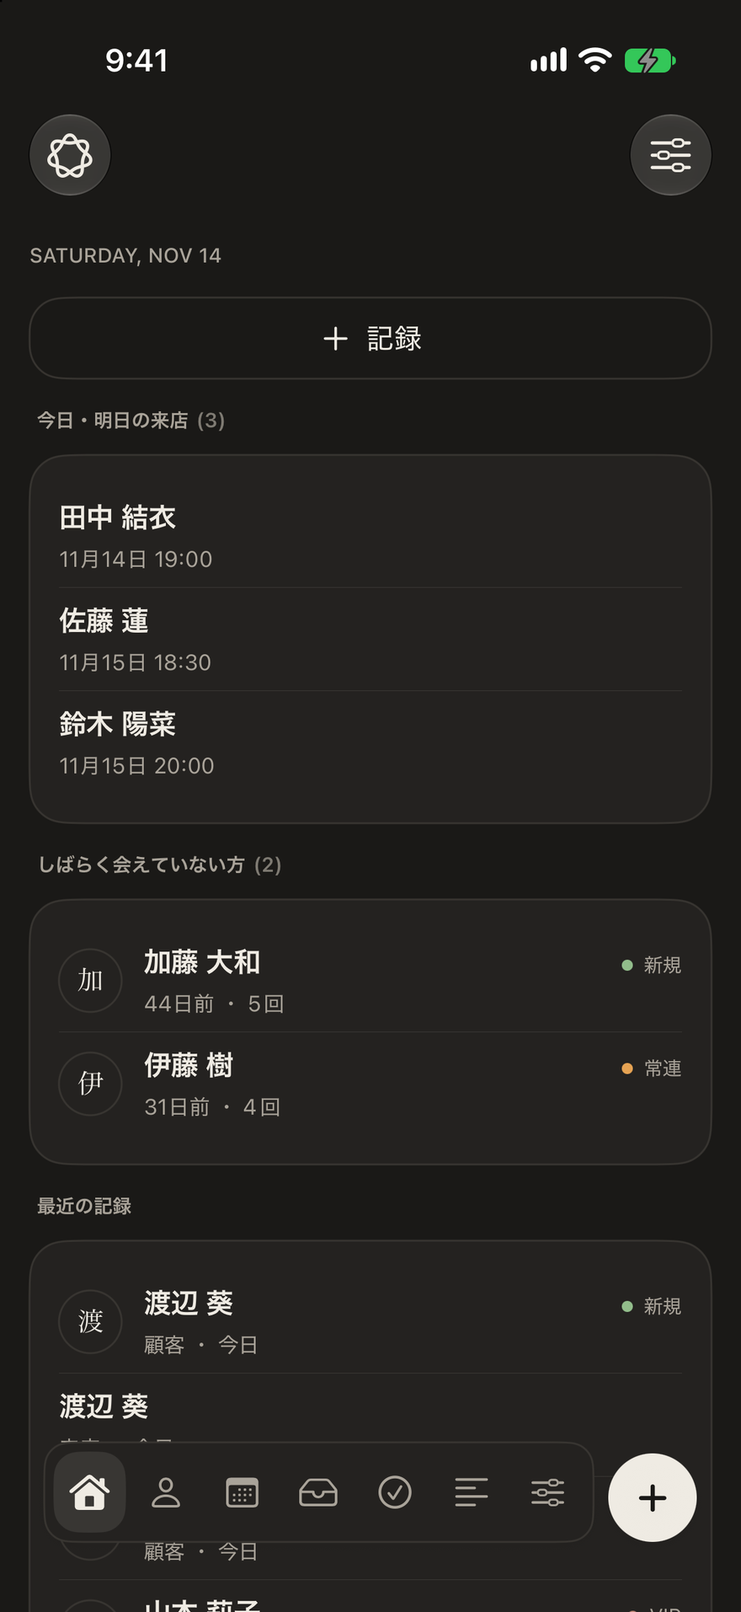
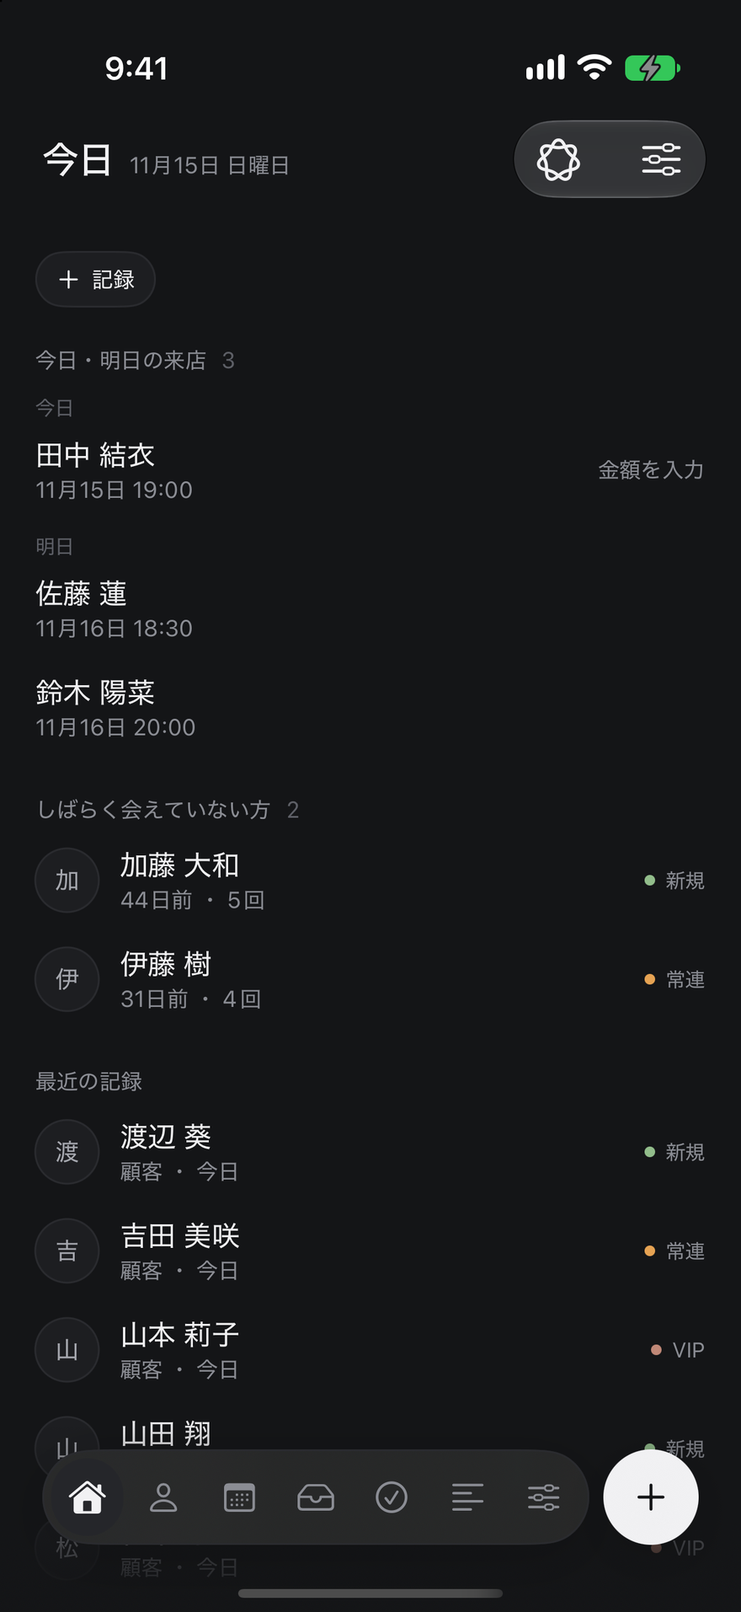
One CRM 1.6.0 に合わせる: 使い方ガイド（検索は虫眼鏡・期間と並び順・来店/案件/タスクの一覧・分析・声の入力・Siri）と画面25枚
- ガイドの画面を新しいデザインで撮り直し（14枚）＋新規3枚（タブ・来店の一覧・分析）
- 紹介ページとトップの画面8枚を差し替え
- パソコン幅でガイドの組み方が崩れていたのを修正（共通の .guide の2列を、このページでは使わない）

diff --git a/one-crm-guide.html b/one-crm-guide.html
@@ -26,10 +26,10 @@
 <link rel="apple-touch-icon" href="/apple-touch-icon.png?v=3">
 <link rel="stylesheet" href="./styles.css?v=20">
 <script type="application/ld+json">
-{"@context": "https://schema.org", "@type": "TechArticle", "headline": "One CRM の使い方", "description": "顧客管理アプリ One CRM の使い方。出発点の選び方、顧客の登録と記録、自動計算、項目とホームのカスタマイズ、法人営業の案件管理、通知、Apple Intelligence、チームでの共有、バックアップと CSV まで。", "url": "https://pohoda.jp/one-crm-guide.html", "image": "https://pohoda.jp/assets/og/og-one-crm.png", "inLanguage": "ja", "datePublished": "2026-10-20", "dateModified": "2026-11-14", "about": {"@type": "MobileApplication", "name": "One CRM", "url": "https://pohoda.jp/one-crm.html"}, "author": {"@type": "Organization", "name": "Pohoda", "url": "https://pohoda.jp/"}, "publisher": {"@type": "Organization", "name": "Pohoda", "url": "https://pohoda.jp/"}}
+{"@context": "https://schema.org", "@type": "TechArticle", "headline": "One CRM の使い方", "description": "顧客管理アプリ One CRM の使い方。出発点の選び方、顧客の登録と記録、自動計算、項目とホームのカスタマイズ、法人営業の案件管理、通知、Apple Intelligence、チームでの共有、バックアップと CSV まで。", "url": "https://pohoda.jp/one-crm-guide.html", "image": "https://pohoda.jp/assets/og/og-one-crm.png", "inLanguage": "ja", "datePublished": "2026-10-20", "dateModified": "2026-11-15", "about": {"@type": "MobileApplication", "name": "One CRM", "url": "https://pohoda.jp/one-crm.html"}, "author": {"@type": "Organization", "name": "Pohoda", "url": "https://pohoda.jp/"}, "publisher": {"@type": "Organization", "name": "Pohoda", "url": "https://pohoda.jp/"}}
 </script>
 <script type="application/ld+json">
-{"@context": "https://schema.org", "@type": "FAQPage", "mainEntity": [{"@type": "Question", "name": "「＋」（記録）を押すと、顧客の登録が開きます", "acceptedAnswer": {"@type": "Answer", "text": "「ゼロから作る」で始めると、来店などの記録の種類が入っていないため、こうなります。「カスタマイズ」の「ビジネス」で「ビジネスを追加」を押し、「サロン・教室」などの出発点を選んで作り直すのが早道です。いまの台帳のまま使うなら、「出来事」のコレクションと自動計算の項目を自分で作ります。"}}, {"@type": "Question", "name": "しばらく来ていない方を探したい", "acceptedAnswer": {"@type": "Answer", "text": "ホームの「しばらく会えていない方」に出ます。全員を順に見たいときは、顧客の一覧で並び順の「最終来店」を選び、もう一度「最終来店」を選んで矢印を「↑」にすると、長く来ていない方から並びます。"}}, {"@type": "Question", "name": "一覧に出す内容を変えたい", "acceptedAnswer": {"@type": "Answer", "text": "一覧の右上のスライダーのアイコンから「カードの見せ方」を開いて、出す項目を選びます。「項目」にある「詳細に最初から出す」は、詳細の画面と新しく登録する画面の設定です。"}}, {"@type": "Question", "name": "書き換えるのをやめたい", "acceptedAnswer": {"@type": "Answer", "text": "詳細の画面は、閉じると保存されます。書き換える前の内容に戻したいときは、もう一度その項目を押して直してください。"}}, {"@type": "Question", "name": "下のタブが小さくなりました", "acceptedAnswer": {"@type": "Answer", "text": "一覧を下へスクロールすると、タブは左下の丸いボタンに小さくなります。丸いボタンを押すか、上へ少し戻すと、もとの並びに戻ります。"}}, {"@type": "Question", "name": "どのアイコンがどのタブか分かりません", "acceptedAnswer": {"@type": "Answer", "text": "「カスタマイズ」の「タブ」に、アイコンと名前が並んでいます。使わないタブは、同じ場所で目のアイコンを押すと隠せます。"}}, {"@type": "Question", "name": "「分析」のタブが見当たりません", "acceptedAnswer": {"@type": "Answer", "text": "「分析」のタブは、最初は隠れています。「カスタマイズ」の「タブ」で、「分析」の目のアイコンを押すと表示されます。"}}, {"@type": "Question", "name": "11人目からの顧客が開けません", "acceptedAnswer": {"@type": "Answer", "text": "無料で使えるのは、全ビジネス合計で10人までです。登録の古い順に10人が開けて、それより後の顧客は鍵の印が付きます。顧客を「保管する」か削除すると枠が空きます。Pro にすると上限がなくなります。"}}, {"@type": "Question", "name": "最後に会った日や回数が変わりません", "acceptedAnswer": {"@type": "Answer", "text": "自動計算は、顧客につながった来店や注文などの記録から数えます。先の日付の記録（予定）は、その日が来るまで数えません。顧客につながっていない記録（CSV で名前が一致しなかった行など）は数えないので、記録を開いて、顧客の項目でお客様を選んでください。"}}, {"@type": "Question", "name": "ホームに何も出ません", "acceptedAnswer": {"@type": "Answer", "text": "ホームに置いたものは、当てはまる記録があるときだけ表示されます。たとえば「しばらく会えていない方」は、最後に会った日から30日以上たった方がいるときに出ます。記録が増えると並ぶようになります。"}}, {"@type": "Question", "name": "連絡先から取り込むボタンが見つかりません", "acceptedAnswer": {"@type": "Answer", "text": "「顧客」の一覧で、右上の「＋」を押すと「連絡先から取り込む」があります。"}}, {"@type": "Question", "name": "CSV が「ファイルを読み取れませんでした」と出ます", "acceptedAnswer": {"@type": "Answer", "text": "読めるのは、UTF-8 か Shift_JIS の CSV です。Excel のブック（.xlsx）のままでは読めないので、Excel で「CSV（コンマ区切り）」として保存し直してください。"}}, {"@type": "Question", "name": "アプリの画面がこのガイドと違います", "acceptedAnswer": {"@type": "Answer", "text": "このガイドはバージョン 1.5 の画面で説明しています。App Store で One CRM を最新版に更新してください。バージョンは「カスタマイズ」のいちばん下の「アプリ情報」で確かめられます。"}}, {"@type": "Question", "name": "ほかの端末に同じ内容が出ません", "acceptedAnswer": {"@type": "Answer", "text": "「カスタマイズ」の「iCloud 同期」がオンになっているか、両方の端末で同じ Apple アカウントの iCloud にサインインしているかを確かめてください。「iCloud のアカウントが変わったか…同期を止めています」と出ているときは、「いまの iCloud で同期を再開する」を押します。"}}, {"@type": "Question", "name": "通知が届きません", "acceptedAnswer": {"@type": "Answer", "text": "「カスタマイズ」の「通知」で「お知らせを受け取る」と「このビジネスのお知らせ」がオンになっているか、iPhone の設定アプリで One CRM の通知が許可されているかを確かめてください。"}}, {"@type": "Question", "name": "「データを開けませんでした」と出ます", "acceptedAnswer": {"@type": "Answer", "text": "記録が消えたわけではありません。「もう一度開く」を押すか、アプリを開き直してください。念のため、「控えを書き出す」でデータを保存しておくと安心です。"}}]}
+{"@context": "https://schema.org", "@type": "FAQPage", "mainEntity": [{"@type": "Question", "name": "「＋」（記録）を押すと、顧客の登録が開きます", "acceptedAnswer": {"@type": "Answer", "text": "「ゼロから作る」で始めると、来店などの記録の種類が入っていないため、こうなります。「カスタマイズ」のいちばん上にあるビジネスの名前を押し、開いた画面の「ビジネスを追加」から「サロン・教室」などの出発点を選んで作り直すのが早道です。いまの台帳のまま使うなら、「出来事」のコレクションと自動計算の項目を自分で作ります。"}}, {"@type": "Question", "name": "しばらく来ていない方を探したい", "acceptedAnswer": {"@type": "Answer", "text": "ホームの「しばらく会えていない方」に出ます。全員を順に見たいときは、顧客の一覧で並び順の「最終来店」を選び、もう一度「最終来店」を選んで矢印を「↑」にすると、長く来ていない方から並びます。"}}, {"@type": "Question", "name": "一覧に出す内容を変えたい", "acceptedAnswer": {"@type": "Answer", "text": "一覧の右上のスライダーのアイコンから「カードの見せ方」を開いて、出す項目を選びます。「項目」にある「詳細に最初から出す」は、詳細の画面と新しく登録する画面の設定です。"}}, {"@type": "Question", "name": "書き換えるのをやめたい", "acceptedAnswer": {"@type": "Answer", "text": "詳細の画面は、閉じると保存されます。書き換える前の内容に戻したいときは、もう一度その項目を押して直してください。"}}, {"@type": "Question", "name": "検索欄が見当たりません", "acceptedAnswer": {"@type": "Answer", "text": "一覧の右上にある虫眼鏡を押すと、検索欄が開きます。"}}, {"@type": "Question", "name": "期間の絞り込みが見当たりません", "acceptedAnswer": {"@type": "Answer", "text": "件数が出ている行の右にある「期間」を押すと、「今月」「来月」などを選べます。日付の項目がない一覧には出ません。"}}, {"@type": "Question", "name": "来店の一覧の並び順が変わりました", "acceptedAnswer": {"@type": "Answer", "text": "バージョン 1.6 から、来店などの記録は日付の新しい順に並びます。名前順に戻したいときは、件数の行の右端にある並び順のボタンを押して「名前」を選びます。選んだ並び順は、そのまま残ります。"}}, {"@type": "Question", "name": "下のタブが小さくなりました", "acceptedAnswer": {"@type": "Answer", "text": "一覧を下へスクロールすると、タブは左下の丸いボタンに小さくなります。丸いボタンを押すか、上へ少し戻すと、もとの並びに戻ります。"}}, {"@type": "Question", "name": "どのアイコンがどのタブか分かりません", "acceptedAnswer": {"@type": "Answer", "text": "「カスタマイズ」の「タブ」に、アイコンと名前が並んでいます。使わないタブは、同じ場所で目のアイコンを押すと隠せます。"}}, {"@type": "Question", "name": "「分析」のタブが見当たりません", "acceptedAnswer": {"@type": "Answer", "text": "「分析」のタブは、最初は隠れています。「カスタマイズ」の「タブ」で、「分析」の目のアイコンを押すと表示されます。"}}, {"@type": "Question", "name": "11人目からの顧客が開けません", "acceptedAnswer": {"@type": "Answer", "text": "無料で使えるのは、全ビジネス合計で10人までです。登録の古い順に10人が開けて、それより後の顧客は鍵の印が付きます。顧客を「保管する」か削除すると枠が空きます。Pro にすると上限がなくなります。"}}, {"@type": "Question", "name": "最後に会った日や回数が変わりません", "acceptedAnswer": {"@type": "Answer", "text": "自動計算は、顧客につながった来店や注文などの記録から数えます。先の日付の記録（予定）は、その日が来るまで数えません。顧客につながっていない記録（CSV で名前が一致しなかった行など）は数えないので、記録を開いて、顧客の項目でお客様を選んでください。"}}, {"@type": "Question", "name": "ホームに何も出ません", "acceptedAnswer": {"@type": "Answer", "text": "ホームに置いたものは、当てはまる記録があるときだけ表示されます。たとえば「しばらく会えていない方」は、最後に会った日から30日以上たった方がいるときに出ます。記録が増えると並ぶようになります。"}}, {"@type": "Question", "name": "連絡先から取り込むボタンが見つかりません", "acceptedAnswer": {"@type": "Answer", "text": "「顧客」の一覧で、右上の「＋」を押すと「連絡先から取り込む」があります。"}}, {"@type": "Question", "name": "CSV が「ファイルを読み取れませんでした」と出ます", "acceptedAnswer": {"@type": "Answer", "text": "読めるのは、UTF-8 か Shift_JIS の CSV です。Excel のブック（.xlsx）のままでは読めないので、Excel で「CSV（コンマ区切り）」として保存し直してください。"}}, {"@type": "Question", "name": "アプリの画面がこのガイドと違います", "acceptedAnswer": {"@type": "Answer", "text": "このガイドはバージョン 1.6 の画面で説明しています。App Store で One CRM を最新版に更新してください。バージョンは「カスタマイズ」のいちばん下の「アプリ情報」で確かめられます。"}}, {"@type": "Question", "name": "ほかの端末に同じ内容が出ません", "acceptedAnswer": {"@type": "Answer", "text": "「カスタマイズ」の「iCloud 同期」がオンになっているか、両方の端末で同じ Apple アカウントの iCloud にサインインしているかを確かめてください。「iCloud のアカウントが変わったか…同期を止めています」と出ているときは、「いまの iCloud で同期を再開する」を押します。"}}, {"@type": "Question", "name": "通知が届きません", "acceptedAnswer": {"@type": "Answer", "text": "「カスタマイズ」の「通知」で「お知らせを受け取る」と「このビジネスのお知らせ」がオンになっているか、iPhone の設定アプリで One CRM の通知が許可されているかを確かめてください。"}}, {"@type": "Question", "name": "「データを開けませんでした」と出ます", "acceptedAnswer": {"@type": "Answer", "text": "記録が消えたわけではありません。「もう一度開く」を押すか、アプリを開き直してください。念のため、「控えを書き出す」でデータを保存しておくと安心です。"}}]}
 </script>
 <script type="application/ld+json">
 {"@context": "https://schema.org", "@type": "BreadcrumbList", "itemListElement": [{"@type": "ListItem", "position": 1, "name": "ホーム", "item": "https://pohoda.jp/"}, {"@type": "ListItem", "position": 2, "name": "One CRM", "item": "https://pohoda.jp/one-crm.html"}, {"@type": "ListItem", "position": 3, "name": "使い方ガイド", "item": "https://pohoda.jp/one-crm-guide.html"}]}
@@ -37,6 +37,8 @@
 <style>
 /* One CRM 使い方ガイド専用（共通 styles.css は変更しない） */
 .guide h2, .guide h3[id] { scroll-margin-top: 84px; }
+/* 共通の .guide（広い画面で「目次｜本文」の2列）は、目次を持たないこのページでは使わない。 */
+@media (min-width: 1000px) { .prose.guide { display: block; } }
 .guide h2.first { border-top: 0; padding-top: 0; margin-top: 30px; }
 .guide .quick { display: grid; grid-template-columns: repeat(3, 1fr); gap: 18px; margin: 18px 0 22px; }
 .guide .quick-step img { width: 100%; height: auto; display: block; border-radius: 16px; border: 1px solid var(--line-2); box-shadow: 0 10px 26px rgba(28,20,14,.08); }
@@ -81,7 +83,7 @@
     <a class="back" href="./one-crm.html">← One CRM の紹介へ</a>
     <div class="app-tag">使い方ガイド</div>
     <h1>One CRM の<wbr>使い方</h1>
-    <div class="updated">2026年11月14日 更新（バージョン 1.5 に対応）</div>
+    <div class="updated">2026年11月15日 更新（バージョン 1.6 に対応）</div>
 
     <p class="lede">One CRM は、お客様の名前と「会ったこと」を記録するだけで、最後に会った日・回数・売上が自動で出る顧客台帳です。覚えることは3つだけです。まずはここから始めてください。</p>
 
@@ -125,6 +127,8 @@
         <a href="#detail">お客様のこれまでの記録を見たい</a>
         <a href="#home">しばらく会えていない方を知りたい</a>
         <a href="#list">お客様を探したい・並べ替えたい</a>
+        <a href="#lists">来店・案件・タスクの一覧を使いたい</a>
+        <a href="#analytics">売上を見たい</a>
       </div>
       <div class="find-group">
         <h3>自分の仕事に合わせる</h3>
@@ -177,27 +181,31 @@
     <h3>AI に設定してもらう（対応している端末のみ）</h3>
     <p>Apple Intelligence が使える端末では、同じ画面の上に入力欄が出ます。「一人でやっている美容室。リピーターの来店間隔を知りたい」のように仕事を一言で書いて「AIに設定してもらう」を押すと、出発点・お客様の呼び名・追加する項目の案が出ます。内容を確かめて「この内容ではじめる」を押します。書いた内容は端末の中だけで処理され、外部には送られません。</p>
     <h3>出発点を選び直したいとき</h3>
-    <p>始めたあとに出発点そのものを選び直すことはできません。別の出発点で使いたいときは、「カスタマイズ」の「ビジネス」で「ビジネスを追加」を押し、名前と出発点を選んで、新しい台帳として作ります（<a href="#collection">コレクションとビジネス</a>）。</p>
+    <p>始めたあとに出発点そのものを選び直すことはできません。別の出発点で使いたいときは、「カスタマイズ」のいちばん上にあるビジネスの名前を押し、開いた画面の「ビジネスを追加」から、名前と出発点を選んで新しい台帳として作ります（<a href="#collection">コレクションとビジネス</a>）。</p>
     <div class="callout">iCloud 同期がオンの端末で使い始めると、最初に「iCloud のデータを確認しています…」と出ます。ほかの端末で使っていたデータがあれば、そのまま読み込まれます。はじめて使う場合は「新しく始める」を押してください。</div>
 
     <h2 id="screens">画面の見方</h2>
     <p>iPhone では、画面の下にタブがアイコンで並びます。表示しているタブは、すべて並びます（多いときは2段になります）。右下の丸い「＋」は、会ったことをすぐに残す「記録」のボタンです。</p>
     <table>
-      <tr><th>ホーム</th><td>家のアイコンです。今日・明日の予定や、しばらく会えていない方など、いま気にかけるものが並びます。</td></tr>
-      <tr><th>顧客・来店・案件など</th><td>記録の種類ごとの一覧です。種類ごとにアイコンが違います。どのアイコンがどの種類かは、「カスタマイズ」の「タブ」で確かめられます。</td></tr>
+      <tr><th>ホーム</th><td>家のアイコンです。左上に「今日」と日付が出て、今日・明日の予定や、しばらく会えていない方など、いま気にかけるものが並びます。</td></tr>
+      <tr><th>顧客・来店・案件など</th><td>記録の種類ごとの一覧です。種類ごとにアイコンが違います。どのアイコンがどの種類かは、「カスタマイズ」の「タブ」を押すと確かめられます。</td></tr>
       <tr><th>カスタマイズ</th><td>いちばん右のアイコンです。商売（ビジネス）の切り替え、記録の種類、タブの並び、同期・通知・ロック・バックアップ、プランの設定です。</td></tr>
       <tr><th>＋（記録）</th><td>会ったことをすぐに残すボタンです。タブの右に、いつも出ています。</td></tr>
     </table>
     <figure class="article-fig">
-      <img src="./assets/screens/onecrm-guide-home.png" alt="One CRM のホーム画面。今日・明日の来店、しばらく会えていない方、最近の記録が並ぶ。下にタブのアイコンが並び、右下に「＋」がある" width="880" height="1913" loading="lazy">
-      <figcaption>ホーム。下にタブがアイコンで並び、右下に「＋」（記録）がある。右上のアイコンでホームに置くものを変えられる。</figcaption>
+      <img src="./assets/screens/onecrm-guide-home.png" alt="One CRM のホーム画面。左上に「今日」と日付、その下に今日・明日の来店、しばらく会えていない方、最近の記録が並ぶ。下にタブのアイコンが並び、右下に「＋」がある" width="880" height="1913" loading="lazy">
+      <figcaption>ホーム。下にタブがアイコンで並び、右下に「＋」（記録）がある。右上は、Apple Intelligence（対応している端末のみ）と、ホームに置くものを変えるアイコン。</figcaption>
     </figure>
     <p>一覧を下へスクロールすると、タブは左下の丸いボタン（いま開いているタブのアイコン）に小さくなります。丸いボタンを押すか、上へ少し戻すと、もとの並びに戻ります。「＋」は小さくならないので、いつでも押せます。</p>
     <figure class="article-fig">
       <img src="./assets/screens/onecrm-guide-list-scrolled.png" alt="顧客の一覧を下へスクロールしたところ。タブは左下の丸いボタンに小さくなり、右下に「＋」がある" width="880" height="1913" loading="lazy">
       <figcaption>スクロール中。タブは左下の丸に小さくなる。押すと開く。</figcaption>
     </figure>
-    <p>使わないタブは、「カスタマイズ」の「タブ」で目のアイコンを押すと隠せます。上下の矢印で並べ替えもできます。「分析」のタブは最初は隠れているので、使うときは同じ場所で表示します。</p>
+    <p>使わないタブは隠せます。「カスタマイズ」の「タブ」を押すと、タブの一覧が開きます。目のアイコンを押すと隠れ、上下の矢印で並べ替えられます。「分析」のタブは最初は隠れているので、使うときは同じ場所で表示します。</p>
+    <figure class="article-fig">
+      <img src="./assets/screens/onecrm-guide-tabs.png" alt="「タブ」の画面。顧客・来店・案件・タスク・ノート・分析が並び、それぞれに上下の矢印と目のアイコンがある。分析は隠れている" width="880" height="1913" loading="lazy">
+      <figcaption>「カスタマイズ」→「タブ」。目のアイコンで隠す、矢印で並べ替える。</figcaption>
+    </figure>
     <p>このガイドは、アプリの「カスタマイズ」→「サポート」→「使い方」からいつでも開けます。</p>
 
     <h3 id="words">ことばの意味</h3>
@@ -236,12 +244,14 @@
       <li>必要なら、メモを書きます。メニューの内容や同伴など、ほかの項目も入れるときは「ほかの項目」を押して開きます。</li>
       <li>日付と時刻は、いまの時刻が入っています。必要なら変えて「保存」を押します。</li>
     </ol>
-    <p>「保存」が押せないときは、お客様がまだ選ばれていません（「顧客を選んでください」と出ます）。金額を入力している間は「保存」が隠れるので、キーボードの「完了」を押してから保存します。「探す」で見つからないときは、その名前のまま新しく登録できます。</p>
+    <p>「保存」が押せないときは、お客様がまだ選ばれていません（「顧客を選んでください」のように出ます）。金額を入力している間は「保存」が隠れるので、キーボードの「完了」を押してから保存します。「探す」で見つからないときは、その名前のまま新しく登録できます。</p>
     <p>「来店」などの一覧の右上の「＋」からも、同じ画面が開きます。</p>
     <p>保存すると、そのお客様の最後に会った日・回数・今月の売上・累計が自動で更新されます。記録を削除したときも計算し直します。</p>
     <p>保存した記録は、ホームの「最近の記録」か、お客様の詳細の「これまでの記録」から開いて、あとから直せます。</p>
     <h3 id="booking">次の予約（予定）を入れる</h3>
-    <p>同じ「記録」の画面で、日付を先の日にすると「予定」として保存されます。「毎週」「隔週」「毎月」の繰り返しも選べます。同じ時間帯にほかの予定があると知らせます。予定は、その日が来るまで回数や売上には数えません。</p>
+    <p>同じ「記録」の画面で、日付を先の日にすると「予定」として保存されます。「毎週」「隔週」「毎月」の繰り返しと、その回数も選べます。同じ時間帯にほかの予定があると知らせます。予定は、その日が来るまで回数や売上には数えません。</p>
+    <h3 id="shortcut">Siri・ショートカットから記録を開く</h3>
+    <p>アプリを開かなくても、記録の画面をすぐに出せます。Siri に「One CRMで記録する」と話しかけるか、ショートカットアプリで One CRM の「記録する」を選びます。ホーム画面で One CRM のアイコンを長押しして「記録する」を選んでも同じです。アプリが開いて、記録の画面が出ます。</p>
     <h3>間違えて記録したとき</h3>
     <p>保存した直後は、画面の下に「記録しました　取り消す」と数秒出ます。「取り消す」を押すと、いまの記録が取り消されます。</p>
     <figure class="article-fig">
@@ -254,14 +264,15 @@
     <h2 id="detail">お客様の詳細を見る</h2>
     <p>一覧でお客様を押すと、詳細が開きます。</p>
     <figure class="article-fig">
-      <img src="./assets/screens/onecrm-guide-detail.png" alt="お客様の詳細画面。名前の下に＋来店などのボタン、最終来店・来店回数・累計、これまでの記録が並ぶ" width="880" height="1913" loading="lazy">
-      <figcaption>詳細。自動計算の項目（f(x) の印）と、これまでの記録が並ぶ。</figcaption>
+      <img src="./assets/screens/onecrm-guide-detail.png" alt="お客様の詳細画面。名前の下に＋来店などのボタン、その下に最終来店・今月売上・来店回数の数字、続いて項目と、これまでの記録が並ぶ" width="880" height="1913" loading="lazy">
+      <figcaption>詳細。先頭に要点の数字、その下に項目と、これまでの記録が並ぶ。</figcaption>
     </figure>
     <ul>
+      <li><strong>要点の数字</strong>：名前の下に、最終来店・回数・売上などの自動計算の数字が、最大3つ大きく並びます。ほかの自動計算の項目は、下の行に f(x) の印つきで出ます。</li>
       <li><strong>直す</strong>：項目を押すと、その場で書き換えられます。右上の「完了」を押しても、画面を下に引いて閉じても、保存されます。</li>
       <li><strong>記録を足す</strong>：名前の下の「＋ 来店」を押すと、その方を選んだ状態で記録の画面が開きます。</li>
       <li><strong>これまでの記録</strong>：その方の来店や注文が新しい順に並びます。10件を超えると「すべて表示」が出ます。</li>
-      <li><strong>連絡する</strong>：電話番号やメールの項目から、電話・SMS・メールを開けます。そのあと「連絡したことを記録しますか？」と聞かれ、「記録する」を押すと今日の日付で1件残ります。</li>
+      <li><strong>連絡する</strong>：電話番号やメールを入れてある方は、名前の下に電話・SMS・メールの丸いボタンが出ます。押すとそれぞれのアプリが開き、戻ると「連絡したことを記録しますか？」と聞かれ、「記録する」を押すと今日の日付で1件残ります。</li>
       <li><strong>入れていない項目</strong>：「未入力の項目」を押すと、まだ入れていない項目が開きます。</li>
       <li><strong>保管・複製・削除</strong>：左上の「…」から選びます。削除は元に戻せません。もう来ない方は「保管する」を使うと、あとで戻せます。来店などの記録を「複製」すると、同じお客様・いまの日時で新しい記録ができて、そのまま開きます。</li>
     </ul>
@@ -269,12 +280,13 @@
     <h2 id="home">ホームを使う</h2>
     <p>ホームには、出発点に合わせたものが最初から置いてあります。当てはまる記録があるものだけが表示されるので、記録が少ないうちは空に見えることがあります。いちばん下には、最近の記録が5件並びます。</p>
     <table>
-      <tr><th>しばらく会えていない方</th><td>最後に会った日から30日以上たった方が出ます。</td></tr>
-      <tr><th>今日・明日の予定</th><td>今日と明日の予定が並びます。</td></tr>
+      <tr><th>しばらく会えていない方</th><td>最後に会った日から30日以上たった方が出ます。電話番号を入れてある方は、行の右のボタンから電話・SMS を開けます。</td></tr>
+      <tr><th>今日・明日の予定</th><td>今日と明日の予定が、「今日」「明日」に分かれて並びます。</td></tr>
       <tr><th>次回アクション・タスク</th><td>期限が近いもの、過ぎたものが並びます。</td></tr>
       <tr><th>動きが無い案件</th><td>しばらく更新していない案件が並びます。受注・失注など、終わった案件は出ません。</td></tr>
       <tr><th>在庫わずか（物販）</th><td>残りが少ない在庫が並びます。</td></tr>
     </table>
+    <p>予約の日が来て、金額がまだ入っていない来店には、行の右に「金額を入力」と出ます。押すと、その記録が金額の入力から開きます。来店の一覧でも同じです。</p>
     <h3>ホームに置くものを変える</h3>
     <p>ホーム右上のスライダーのアイコンを押すと「ホームを編集」が開きます。</p>
     <ul>
@@ -289,22 +301,48 @@
 
     <h2 id="list">一覧で探す・整理する</h2>
     <figure class="article-fig">
-      <img src="./assets/screens/onecrm-guide-list.png" alt="顧客の一覧。右上に「＋」・設定・「…」のボタン、その下に検索欄、ランクの絞り込み、並べ替え、期間の絞り込みが並ぶ" width="880" height="1913" loading="lazy">
-      <figcaption>顧客の一覧。上から、検索・絞り込み・期間。</figcaption>
+      <img src="./assets/screens/onecrm-guide-list.png" alt="顧客の一覧。右上に検索・「＋」・設定・「…」のボタン、その下にランクの絞り込み、さらに件数と、期間・並び順のボタンが並ぶ" width="880" height="1913" loading="lazy">
+      <figcaption>顧客の一覧。右上に検索（虫眼鏡）。その下に絞り込み、件数、期間と並び順。</figcaption>
     </figure>
     <ul>
-      <li><strong>探す</strong>：上の検索欄に、名前・よみ・メモの一部を入れます。ひらがなとカタカナ、全角と半角の違いは気にしなくて大丈夫です。電話番号は、ハイフンがあってもなくても探せます。漢字の名前をひらがなで探すには、「よみ」を入れておきます。</li>
+      <li><strong>探す</strong>：右上の虫眼鏡を押すと、検索欄が開きます。名前・よみ・メモの一部を入れます。何も入れないうちは、最近開いたお客様が並びます。ひらがなとカタカナ、全角と半角の違いは気にしなくて大丈夫です。電話番号は、ハイフンがあってもなくても探せます。漢字の名前をひらがなで探すには、「よみ」を入れておきます。</li>
       <li><strong>絞り込む</strong>：「VIP」「常連」のようなボタンを押します。件数も出ます。</li>
-      <li><strong>並べ替える</strong>：「↑↓ 名前」のボタンを押して、並び順を選びます。同じ並び順をもう一度選ぶと、逆順になります（矢印の向きが変わります）。五十音順にしたいときは「よみ」を選びます。</li>
+      <li><strong>期間で絞る</strong>：件数の行の右にある「期間」を押して、「今月」「来月」「今四半期」などを選びます。やめるときは、同じ場所から「期間を外す」を選びます。</li>
+      <li><strong>並べ替える</strong>：件数の行の右端にある「名前 ↑」のようなボタンを押して、並び順を選びます。同じ並び順をもう一度選ぶと、逆順になります（矢印の向きが変わります）。五十音順にしたいときは「よみ」を選びます。</li>
       <li><strong>しばらく来ていない順に並べる</strong>：並び順で「最終来店」を選び、もう一度「最終来店」を選んで矢印を「↑」にします。いちばん長く来ていない方が上に来ます。</li>
       <li><strong>まとめて操作する</strong>：右上の「…」から「まとめて操作」を選びます。選んだ方に、まとめてタグを付ける・ランクなどの選択項目を変える・保管する、ができます。</li>
       <li><strong>保管した方を見る</strong>：右上の「…」から「保管したものを見る」を選びます。</li>
-      <li><strong>1件ずつ操作する</strong>：行を長押しすると、「保管する」「複製」「削除」が出ます。</li>
+      <li><strong>1件ずつ操作する</strong>：行を長押しすると、「保管する」「複製」「削除」が出ます。お客様の行では、「来店を記録」「電話」「SMS」も出ます（電話と SMS は、電話番号を入れてある方だけ）。</li>
     </ul>
     <figure class="article-fig">
       <img src="./assets/screens/onecrm-guide-list-more.png" alt="顧客一覧の右上の「…」を押したところ。保管したものを見る、まとめて操作、ランクごとにまとめる、が並ぶ" width="880" height="1913" loading="lazy">
       <figcaption>右上の「…」のメニュー。</figcaption>
     </figure>
+
+    <h3 id="lists">来店・案件・タスクの一覧</h3>
+    <figure class="article-fig">
+      <img src="./assets/screens/onecrm-guide-visits.png" alt="来店の一覧。上に件数と金額の合計、その下に「これから」の予定3件、続いて11月の記録が件数と小計つきで並ぶ" width="880" height="1913" loading="lazy">
+      <figcaption>来店の一覧。「これから」の予定と、月ごとの記録。</figcaption>
+    </figure>
+    <ul>
+      <li><strong>来店などの記録</strong>：日付の新しい順に並びます。先の日付の予定は「これから」に、過ぎた記録は月ごとにまとまり、月ごとの件数と金額の合計が出ます。いちばん上には、全体の件数と金額の合計が出ます。</li>
+      <li><strong>案件</strong>：段階ごとにまとまり、件数と金額の小計が出ます。行を長押しして「ステータスを変える」を選ぶと、開かずに段階を変えられます（「ステータス」の部分は、項目の名前によって変わります）。</li>
+      <li><strong>タスク</strong>：行の先頭の丸を押すと、完了になります。もう一度押すと戻ります。まとめ方によっては、「期限切れ」「今日」「今週」「それ以降」のように、期限ごとに分かれて並びます。</li>
+      <li><strong>期限を過ぎたもの</strong>：期限を過ぎた案件やタスクには、名前の前に点が付き、右に「3日超過」のように出ます。</li>
+    </ul>
+
+    <h2 id="analytics">売上を見る（分析）</h2>
+    <p>「分析」のタブは、最初は隠れています。「カスタマイズ」の「タブ」を押し、「分析」の目のアイコンを押して表示します（<a href="#screens">画面の見方</a>）。</p>
+    <figure class="article-fig">
+      <img src="./assets/screens/onecrm-guide-analytics.png" alt="分析の画面。上に今月・先月・今四半期・今期・今年・全期間のボタン、その下に合計の金額と件数、月ごとの棒、顧客別の金額が並ぶ" width="880" height="1913" loading="lazy">
+      <figcaption>分析。期間を選ぶと、合計・月ごとの棒・内訳が出る。</figcaption>
+    </figure>
+    <ul>
+      <li><strong>期間を選ぶ</strong>：いちばん上の「今月」「先月」「今四半期」「今期」「今年」「全期間」から選びます。</li>
+      <li><strong>合計</strong>：選んだ期間の合計が大きく出ます。その下に、件数・1件あたりの金額・前の期間との差が出ます。</li>
+      <li><strong>月ごとの棒</strong>：棒を押すと、その月の金額が出ます。</li>
+      <li><strong>内訳</strong>：その下に、段階ごと・お客様ごとの件数と金額が並びます。お客様を1人選んで見る分析は、Pro の機能です。</li>
+    </ul>
 
     <div class="part">自分の仕事に合わせる</div>
 
@@ -377,7 +415,7 @@
     <p>種類は作るときにだけ選べます。無料では、出発点で用意されたものに加えて1つまで作れます。</p>
     <p>「カスタマイズ」の「コレクション」に並ぶ名前を押すと、その一覧が開きます。項目を変えるときは、開いた一覧の右上のスライダーのアイコンを押します（<a href="#fields">項目を作り替える</a>）。</p>
     <h3>ビジネス（商売ごとの台帳）を足す</h3>
-    <p>商売が複数あるときは、「ビジネス」を分けて使えます。ビジネスごとに顧客も項目もホームも分かれます。「カスタマイズ」の「ビジネス」で「ビジネスを追加」を押し、名前と出発点を選びます。ビジネスが2つ以上になると、ホームの右上にビジネスの切り替えボタンが出ます。</p>
+    <p>商売が複数あるときは、「ビジネス」を分けて使えます。ビジネスごとに顧客も項目もホームも分かれます。「カスタマイズ」のいちばん上にあるビジネスの名前を押し、開いた画面の「ビジネスを追加」から、名前と出発点を選びます。ビジネスが2つ以上になると、ホームのいちばん上に、ビジネスを切り替えるボタンが出ます。</p>
 
     <h2 id="b2b">法人営業で使う</h2>
     <p>「法人営業」の出発点では、取引先・担当者・案件・活動履歴をつなげて管理します。</p>
@@ -387,7 +425,7 @@
       <li>「案件」のタブで案件を登録し、取引先と担当者を選びます。</li>
       <li>商談や訪問をしたら、右下の「＋」から活動履歴を残します。最終接触と活動回数が自動で更新されます。</li>
     </ol>
-    <p>案件の一覧は、ステータス（案件化・見積提示・確度50%・コミット・受注・失注）ごとにまとまり、段階ごとの件数と金額の小計が出ます。上のボタンで段階ごとに絞り込めます。段階を進めるときは、案件を開いて「ステータス」を選び直します。</p>
+    <p>案件の一覧は、ステータス（案件化・見積提示・確度50%・コミット・受注・失注）ごとにまとまり、段階ごとの件数と金額の小計が出ます。上のボタンで段階ごとに絞り込めます。段階を進めるときは、案件の行を長押しして「ステータスを変える」を選ぶか、案件を開いて「ステータス」を選び直します。</p>
     <p>段階の名前や数は、「ステータス」の「選択肢を編集」で自分のやり方に合わせて作り替えられます。「終了した案件として扱う」をオンにした段階の案件は、ホームの「動きが無い案件」や通知から外れます。</p>
     <div class="callout">この出発点で「連絡先から取り込む」を使うと、連絡先の氏名が「会社名」に入ります。会社は手で登録し、人は「担当者」に登録するのがおすすめです。</div>
 
@@ -404,12 +442,13 @@
     <p>通知を押すと、その方や予定の画面が開きます。通知は端末の中だけで組み立てています。届かないときは、iPhone の設定アプリで One CRM の通知が許可されているかを確かめてください。</p>
 
     <h2 id="ai">Apple Intelligence で話しかける</h2>
-    <p>Apple Intelligence に対応した端末で、設定の Apple Intelligence がオンのときに使えます。ホームの左上か、記録の画面の右上にある花のような形のボタンを押し、話しかけるように入力します。処理はすべて端末の中で行われます。</p>
+    <p>Apple Intelligence に対応した端末で、設定の Apple Intelligence がオンのときに使えます。ホームの右上か、記録の画面の右上にある花のような形のボタンを押し、話しかけるように入力します。処理はすべて端末の中で行われます。</p>
     <table>
       <tr><th>探す</th><td>「先月来た製造業の顧客」「100万円以上の案件」のように書くと、当てはまる記録の一覧が出ます。</td></tr>
       <tr><th>記録の下書き</th><td>「田中さんと商談、来月見積」のように書くと、項目が埋まった登録画面が開きます。内容を確かめて「保存」を押します。</td></tr>
       <tr><th>数字を聞く</th><td>「今週やることをまとめて」のように聞くと、今月や先月の件数・金額、期限の近いタスク、しばらく連絡していない人数などから答えます。</td></tr>
     </table>
+    <p>iPhone・iPad では、入力欄のマイクのボタンを押すと、声で入力できます。話し終えたら、もう一度押します。話した内容が文字になって、入力欄に入ります。自動では送信されないので、内容を確かめてから送ります。音声は端末の中だけで文字にし、外部には送りません。端末の中で文字にできない言語や端末では、マイクのボタンは出ません。</p>
     <p>使えない端末でも、手で入れればすべての機能を使えます。</p>
 
     <h2 id="team">チームで使う（Pro）</h2>
@@ -427,6 +466,8 @@
     <p>「カスタマイズ」の「iCloud 同期」にある「iCloud で同期する」は、最初からオンです。同じ Apple アカウントの iPhone・iPad・Mac で同じ内容になります。新しい iPhone でも、同じ Apple アカウントでアプリを開けば、そのまま読み込まれます。オフにすると、この端末のデータはそのまま残り、ほかの端末とは同じ内容でなくなります。タブの並びと表示は端末ごとの設定で、同期しません。</p>
     <h3>アプリロック</h3>
     <p>「カスタマイズ」の「プライバシー」で、「Face ID でロック」（端末によって Touch ID・パスコード）をオンにします。アプリを切り替えたときの画面も隠れます。端末にパスコードが設定されていないと、オンにできません。</p>
+    <h3>ライト・ダークの切り替え</h3>
+    <p>「カスタマイズ」の「表示」にある「テーマ」で、「システム」「ライト」「ダーク」から選べます。「システム」は、iPhone の外観の設定に合わせます。</p>
     <h3>バックアップ</h3>
     <p>「カスタマイズ」の「データ」にある「バックアップ・CSV」を開きます。「バックアップを書き出す」で、写真も含めたデータを1つのファイルに保存できます。念のための控えに使えます。書き出しはずっと無料です。</p>
     <p>「バックアップから復元」では、「いまのデータに足す」か「いまのデータを置き換える」を選べます。復元の前に、いまのデータは自動で控えられます。</p>
@@ -469,10 +510,13 @@
 
     <h2 id="trouble">うまくいかないとき</h2>
     <div class="faq">
-      <details><summary>「＋」（記録）を押すと、顧客の登録が開きます</summary><p>「ゼロから作る」で始めると、来店などの記録の種類が入っていないため、こうなります。「カスタマイズ」の「ビジネス」で「ビジネスを追加」を押し、「サロン・教室」などの出発点を選んで作り直すのが早道です。いまの台帳のまま使うなら、「出来事」のコレクションと自動計算の項目を自分で作ります。</p></details>
+      <details><summary>「＋」（記録）を押すと、顧客の登録が開きます</summary><p>「ゼロから作る」で始めると、来店などの記録の種類が入っていないため、こうなります。「カスタマイズ」のいちばん上にあるビジネスの名前を押し、開いた画面の「ビジネスを追加」から「サロン・教室」などの出発点を選んで作り直すのが早道です。いまの台帳のまま使うなら、「出来事」のコレクションと自動計算の項目を自分で作ります。</p></details>
       <details><summary>しばらく来ていない方を探したい</summary><p>ホームの「しばらく会えていない方」に出ます。全員を順に見たいときは、顧客の一覧で並び順の「最終来店」を選び、もう一度「最終来店」を選んで矢印を「↑」にすると、長く来ていない方から並びます。</p></details>
       <details><summary>一覧に出す内容を変えたい</summary><p>一覧の右上のスライダーのアイコンから「カードの見せ方」を開いて、出す項目を選びます。「項目」にある「詳細に最初から出す」は、詳細の画面と新しく登録する画面の設定です。</p></details>
       <details><summary>書き換えるのをやめたい</summary><p>詳細の画面は、閉じると保存されます。書き換える前の内容に戻したいときは、もう一度その項目を押して直してください。</p></details>
+      <details><summary>検索欄が見当たりません</summary><p>一覧の右上にある虫眼鏡を押すと、検索欄が開きます。</p></details>
+      <details><summary>期間の絞り込みが見当たりません</summary><p>件数が出ている行の右にある「期間」を押すと、「今月」「来月」などを選べます。日付の項目がない一覧には出ません。</p></details>
+      <details><summary>来店の一覧の並び順が変わりました</summary><p>バージョン 1.6 から、来店などの記録は日付の新しい順に並びます。名前順に戻したいときは、件数の行の右端にある並び順のボタンを押して「名前」を選びます。選んだ並び順は、そのまま残ります。</p></details>
       <details><summary>下のタブが小さくなりました</summary><p>一覧を下へスクロールすると、タブは左下の丸いボタンに小さくなります。丸いボタンを押すか、上へ少し戻すと、もとの並びに戻ります。</p></details>
       <details><summary>どのアイコンがどのタブか分かりません</summary><p>「カスタマイズ」の「タブ」に、アイコンと名前が並んでいます。使わないタブは、同じ場所で目のアイコンを押すと隠せます。</p></details>
       <details><summary>「分析」のタブが見当たりません</summary><p>「分析」のタブは、最初は隠れています。「カスタマイズ」の「タブ」で、「分析」の目のアイコンを押すと表示されます。</p></details>
@@ -481,7 +525,7 @@
       <details><summary>ホームに何も出ません</summary><p>ホームに置いたものは、当てはまる記録があるときだけ表示されます。たとえば「しばらく会えていない方」は、最後に会った日から30日以上たった方がいるときに出ます。記録が増えると並ぶようになります。</p></details>
       <details><summary>連絡先から取り込むボタンが見つかりません</summary><p>「顧客」の一覧で、右上の「＋」を押すと「連絡先から取り込む」があります。</p></details>
       <details><summary>CSV が「ファイルを読み取れませんでした」と出ます</summary><p>読めるのは、UTF-8 か Shift_JIS の CSV です。Excel のブック（.xlsx）のままでは読めないので、Excel で「CSV（コンマ区切り）」として保存し直してください。</p></details>
-      <details><summary>アプリの画面がこのガイドと違います</summary><p>このガイドはバージョン 1.5 の画面で説明しています。App Store で One CRM を最新版に更新してください。バージョンは「カスタマイズ」のいちばん下の「アプリ情報」で確かめられます。</p></details>
+      <details><summary>アプリの画面がこのガイドと違います</summary><p>このガイドはバージョン 1.6 の画面で説明しています。App Store で One CRM を最新版に更新してください。バージョンは「カスタマイズ」のいちばん下の「アプリ情報」で確かめられます。</p></details>
       <details><summary>ほかの端末に同じ内容が出ません</summary><p>「カスタマイズ」の「iCloud 同期」がオンになっているか、両方の端末で同じ Apple アカウントの iCloud にサインインしているかを確かめてください。「iCloud のアカウントが変わったか…同期を止めています」と出ているときは、「いまの iCloud で同期を再開する」を押します。</p></details>
       <details><summary>通知が届きません</summary><p>「カスタマイズ」の「通知」で「お知らせを受け取る」と「このビジネスのお知らせ」がオンになっているか、iPhone の設定アプリで One CRM の通知が許可されているかを確かめてください。</p></details>
       <details><summary>「データを開けませんでした」と出ます</summary><p>記録が消えたわけではありません。「もう一度開く」を押すか、アプリを開き直してください。念のため、「控えを書き出す」でデータを保存しておくと安心です。</p></details>
